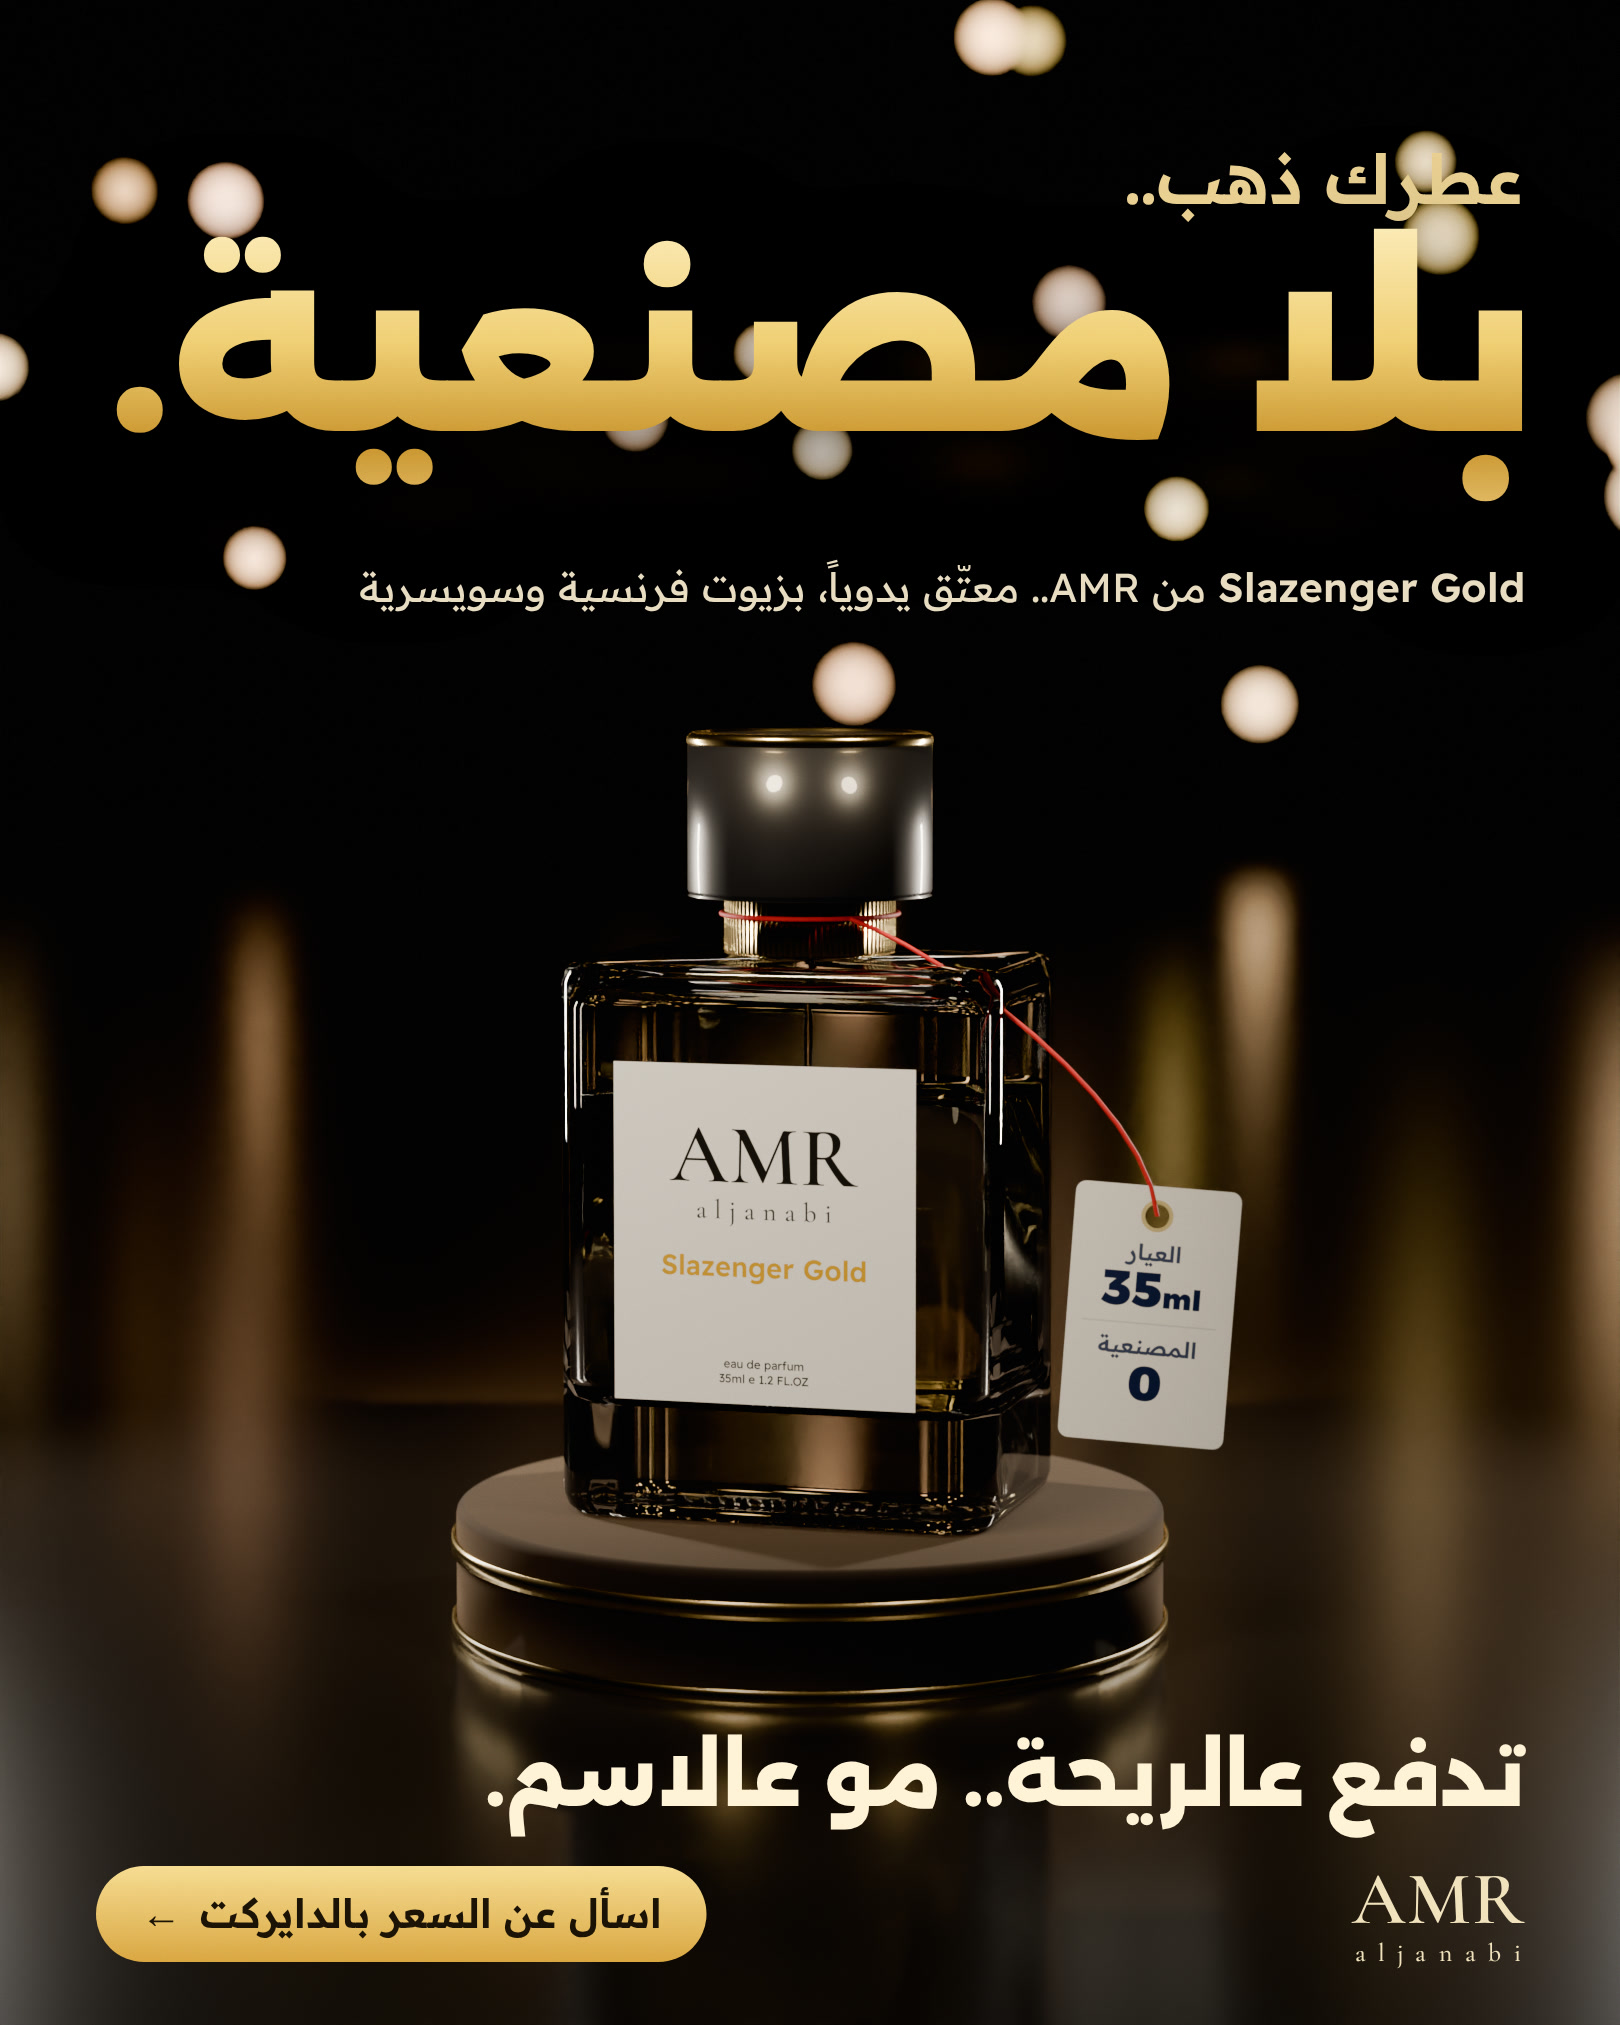
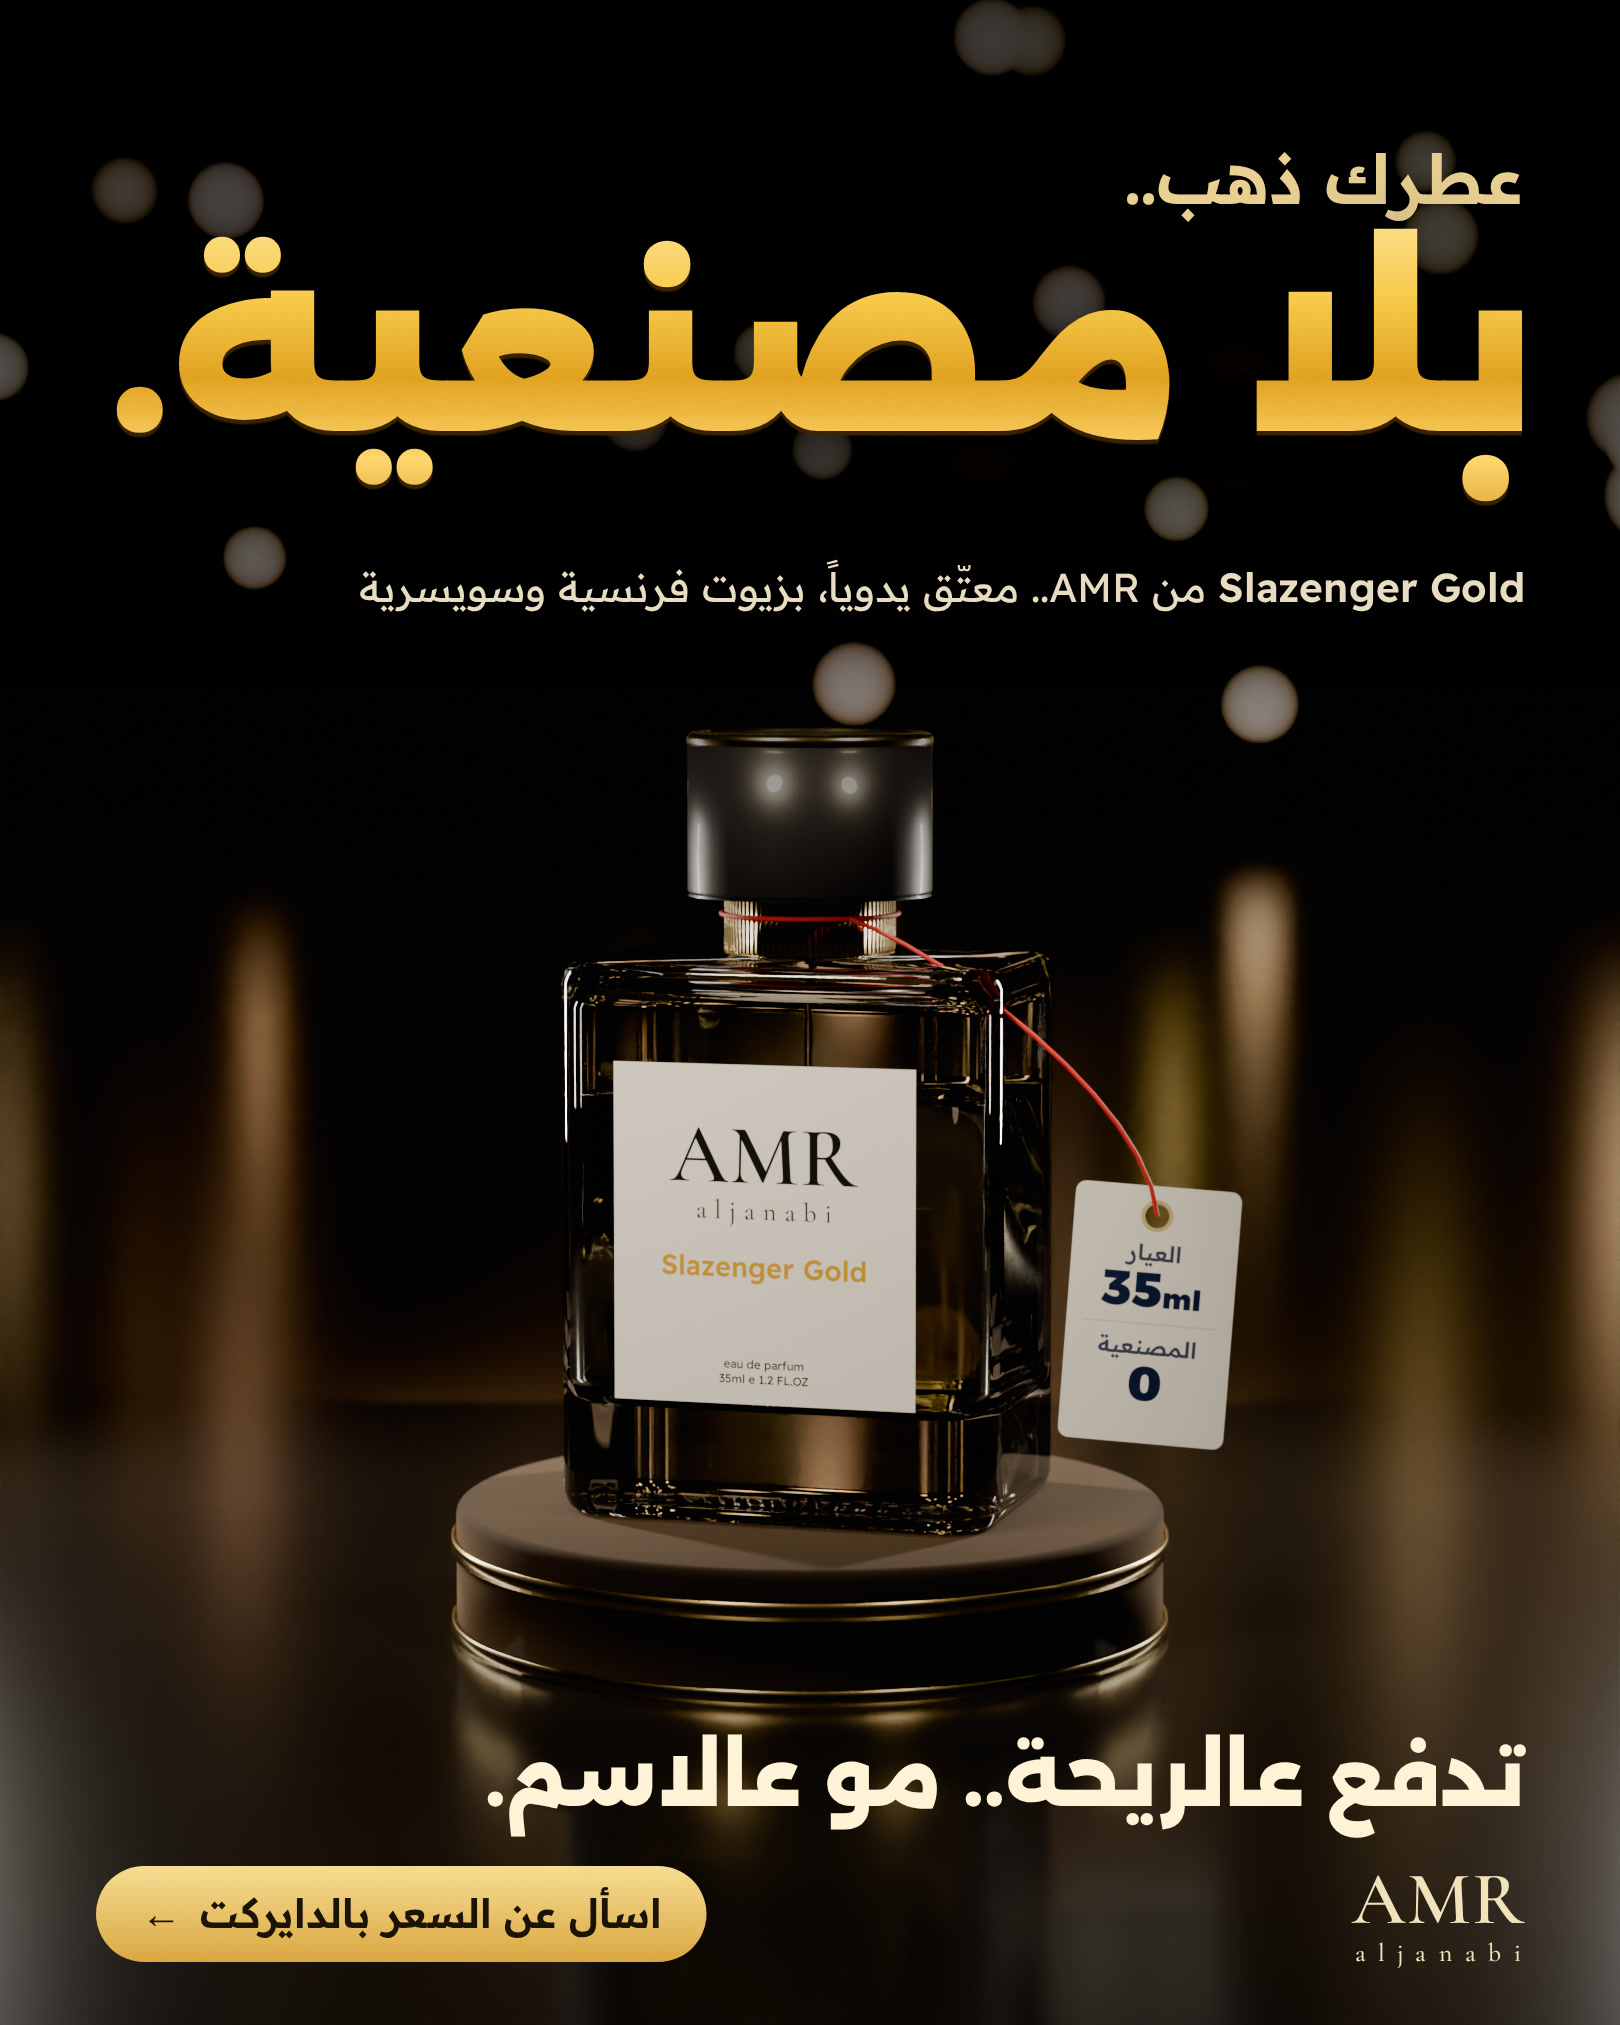
AMR pitch v6: make the Slazenger gold headline readable
Darken the bokeh behind the headline, and give the gold a deeper gradient
with a tight dark edge.

Claude-Session: https://claude.ai/code/session_013oWw8PeK3nbdaZG97hkGWn

diff --git a/marketing/amr-aljanabi-pitch/v6/ads.html b/marketing/amr-aljanabi-pitch/v6/ads.html
@@ -47,12 +47,12 @@ body { background: #111; display: flex; flex-direction: column; gap: 40px; align
 .bub small { display: block; font-size: 19px; font-weight: 500; color: #8a8a90; margin-bottom: 4px }
 
 /* ---------- 2 · Slazenger Gold: «ذهب.. بلا مصنعية» ---------- */
-#slazenger .shade { background: linear-gradient(0deg, rgba(0,0,0,.55) 0%, rgba(0,0,0,0) 26%) }
+#slazenger .shade { background: linear-gradient(180deg, rgba(0,0,0,.78) 0%, rgba(0,0,0,.62) 30%, rgba(0,0,0,0) 50%), linear-gradient(0deg, rgba(0,0,0,.55) 0%, rgba(0,0,0,0) 26%) }
 #slazenger .lead { color: #e9cf8f }
 #slazenger .hl { font-size: 178px }
 #slazenger .hl .g { display: inline-block; padding: .16em .12em .34em; margin: -.16em -.12em -.34em;
-  background: linear-gradient(180deg, #fff3c9 0%, #f0cf72 42%, #c8922c 70%, #f3d58a 100%); -webkit-background-clip: text; background-clip: text; color: transparent;
-  filter: drop-shadow(0 18px 40px rgba(0,0,0,.6)) }
+  background: linear-gradient(180deg, #ffe6a0 0%, #f7c948 30%, #e0a020 52%, #ffd56a 74%, #c98a1c 100%); -webkit-background-clip: text; background-clip: text; color: transparent;
+  filter: drop-shadow(0 3px 0 rgba(60,35,0,.9)) drop-shadow(0 16px 36px rgba(0,0,0,.85)) }
 #slazenger .sub { top: 372px; color: #e8dcc0 }
 #slazenger .punch { bottom: 132px; font-size: 54px; color: #fff3d6 }
 #slazenger .punch s { text-decoration: none; position: relative; color: #a99a7a }
